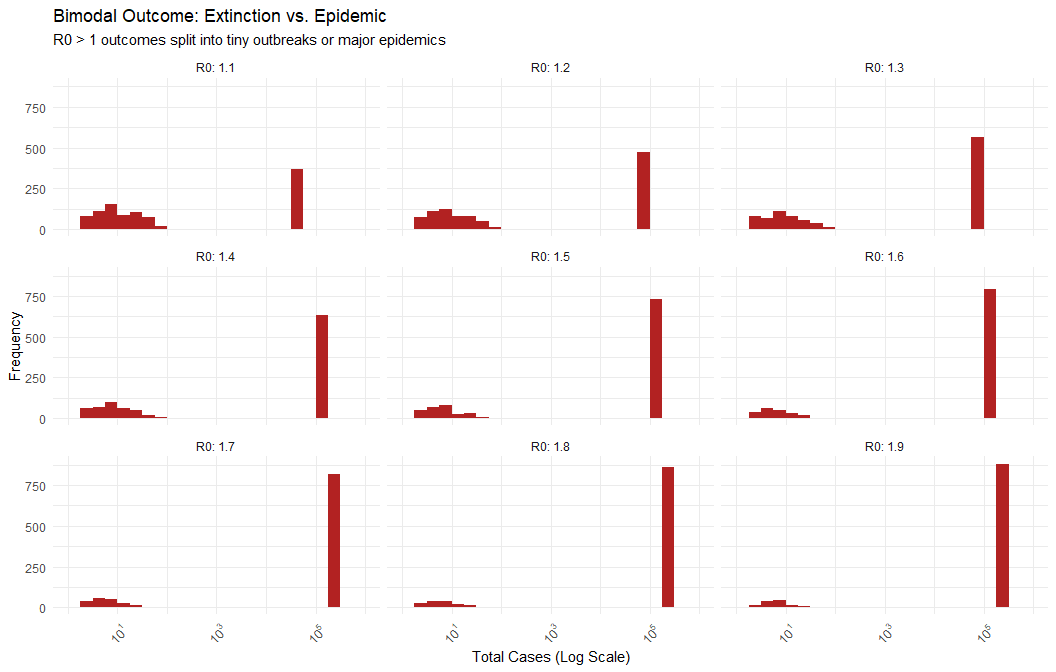
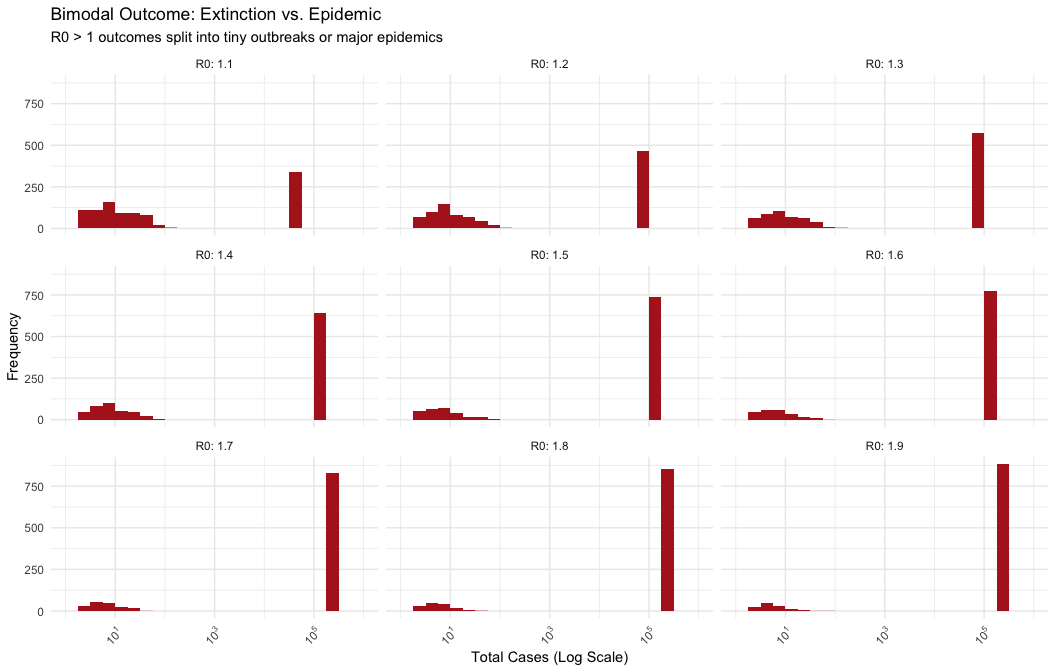
Update plots and add zoomed in epi proportion curve

diff --git a/vignettes/experiments/tabletop/davis_agemodel.md b/vignettes/experiments/tabletop/davis_agemodel.md
@@ -2,9 +2,7 @@
     library(socialmixr)
 
     library(data.table)
-    #> data.table 1.17.0 using 4 threads (see ?getDTthreads).  Latest news: r-datatable.com
     library(ggplot2)
-    #> Learn more about the underlying theory at https://ggplot2-book.org/
 
 This vignette demonstrates an age-structured model of transmission
 within Davis County, Utah.
@@ -64,8 +62,7 @@ many of those simulations resulted in each number of total infections
 (including the first one).
 
     # Define R0 values to inspect
-    r0_low_vals <- c(0.1, 0.2, 0.3, 0.4, 0.5, 0.6, 0.7, 0.8, 0.9)
-
+    r0_low_vals <- c(0.5, 0.7, 0.9, 0.99)
     # Run simulations
     results_low <- do.call(rbind, lapply(r0_low_vals, function(r) {
       fs <- finalsize(popsize, r, contactmatrix, relsusc, reltransm, initR, initI, initV,
@@ -83,8 +80,10 @@ many of those simulations resulted in each number of total infections
            y = "Frequency",
            x = "Total Cases") +
       theme_minimal()
-    #> Warning: Removed 390 rows containing non-finite outside the scale range (`stat_count()`).
-    #> Warning: Removed 4 rows containing missing values or values outside the scale range (`geom_bar()`).
+    #> Warning: Removed 566 rows containing non-finite outside the scale range
+    #> (`stat_count()`).
+    #> Warning: Removed 3 rows containing missing values or values outside the scale
+    #> range (`geom_bar()`).
 
 ![](davis_agemodel_files/figure-markdown_strict/unnamed-chunk-7-1.png)
 
@@ -122,17 +121,17 @@ outbreak sizes:
 <tr>
 <td style="text-align: right;">5</td>
 <td style="text-align: right;">0.57</td>
-<td style="text-align: right;">0.56</td>
+<td style="text-align: right;">0.55</td>
 </tr>
 <tr>
 <td style="text-align: right;">10</td>
-<td style="text-align: right;">0.19</td>
-<td style="text-align: right;">0.84</td>
+<td style="text-align: right;">0.17</td>
+<td style="text-align: right;">0.86</td>
 </tr>
 <tr>
 <td style="text-align: right;">15</td>
-<td style="text-align: right;">0.07</td>
-<td style="text-align: right;">0.94</td>
+<td style="text-align: right;">0.08</td>
+<td style="text-align: right;">0.93</td>
 </tr>
 <tr>
 <td style="text-align: right;">20</td>
@@ -141,8 +140,8 @@ outbreak sizes:
 </tr>
 <tr>
 <td style="text-align: right;">30</td>
-<td style="text-align: right;">0.00</td>
-<td style="text-align: right;">1.00</td>
+<td style="text-align: right;">0.01</td>
+<td style="text-align: right;">0.99</td>
 </tr>
 <tr>
 <td style="text-align: right;">50</td>
@@ -213,8 +212,8 @@ sizes:
 <tbody>
 <tr>
 <td style="text-align: right;">10</td>
-<td style="text-align: right;">0.81</td>
-<td style="text-align: right;">0.20</td>
+<td style="text-align: right;">0.82</td>
+<td style="text-align: right;">0.19</td>
 </tr>
 <tr>
 <td style="text-align: right;">20</td>
@@ -228,28 +227,28 @@ sizes:
 </tr>
 <tr>
 <td style="text-align: right;">100</td>
-<td style="text-align: right;">0.73</td>
-<td style="text-align: right;">0.27</td>
+<td style="text-align: right;">0.74</td>
+<td style="text-align: right;">0.26</td>
 </tr>
 <tr>
 <td style="text-align: right;">200</td>
-<td style="text-align: right;">0.73</td>
-<td style="text-align: right;">0.27</td>
+<td style="text-align: right;">0.74</td>
+<td style="text-align: right;">0.26</td>
 </tr>
 <tr>
 <td style="text-align: right;">500</td>
-<td style="text-align: right;">0.73</td>
-<td style="text-align: right;">0.27</td>
+<td style="text-align: right;">0.74</td>
+<td style="text-align: right;">0.26</td>
 </tr>
 <tr>
 <td style="text-align: right;">1000</td>
-<td style="text-align: right;">0.73</td>
-<td style="text-align: right;">0.27</td>
+<td style="text-align: right;">0.74</td>
+<td style="text-align: right;">0.26</td>
 </tr>
 <tr>
 <td style="text-align: right;">2000</td>
-<td style="text-align: right;">0.73</td>
-<td style="text-align: right;">0.27</td>
+<td style="text-align: right;">0.74</td>
+<td style="text-align: right;">0.26</td>
 </tr>
 </tbody>
 </table>
@@ -283,3 +282,34 @@ sizes:
       theme_minimal()
 
 ![](davis_agemodel_files/figure-markdown_strict/other-diagrams-1.png)
+
+### Zoomed-in R0 Curve
+
+Let’s look at the 0.7 to 1.3 range in more detail:
+
+    # Zoomed-in R0 range
+    r0_zoom <- seq(0.9, 1.0, by = 0.025)
+    risk_data_zoom <- do.call(rbind, lapply(r0_zoom, function(r) {
+      # Run 500 simulations per R0
+      fs <- finalsize(popsize, r, contactmatrix, relsusc, reltransm, initR, initI, initV,
+                      method = "hybrid", nsims = 500)
+
+      # Calculate proportion of runs that have over 100 cases
+      prob_epidemic <- mean(rowSums(fs) > 100)
+
+      data.frame(R0 = r, Probability = prob_epidemic)
+    }))
+
+    # Plot the Zoomed-in Risk Curve
+    ggplot(risk_data_zoom, aes(x = R0, y = Probability)) +
+      geom_line(color = "darkgreen", size = 1.2) +
+      geom_point(size = 3, alpha = 0.6) +
+      geom_vline(xintercept = 1.0, linetype = "dashed", color = "gray50") +
+      scale_y_continuous(labels = scales::percent) +
+      labs(title = "Zoomed-In Epidemic Risk Curve",
+           subtitle = "Probability of over 100 cases for R0 between 0.9 and 1.0",
+           y = "Probability of Epidemic",
+           x = "Basic Reproduction Number (R0)") +
+      theme_minimal()
+
+![](davis_agemodel_files/figure-markdown_strict/zoomed-curve-1.png)
